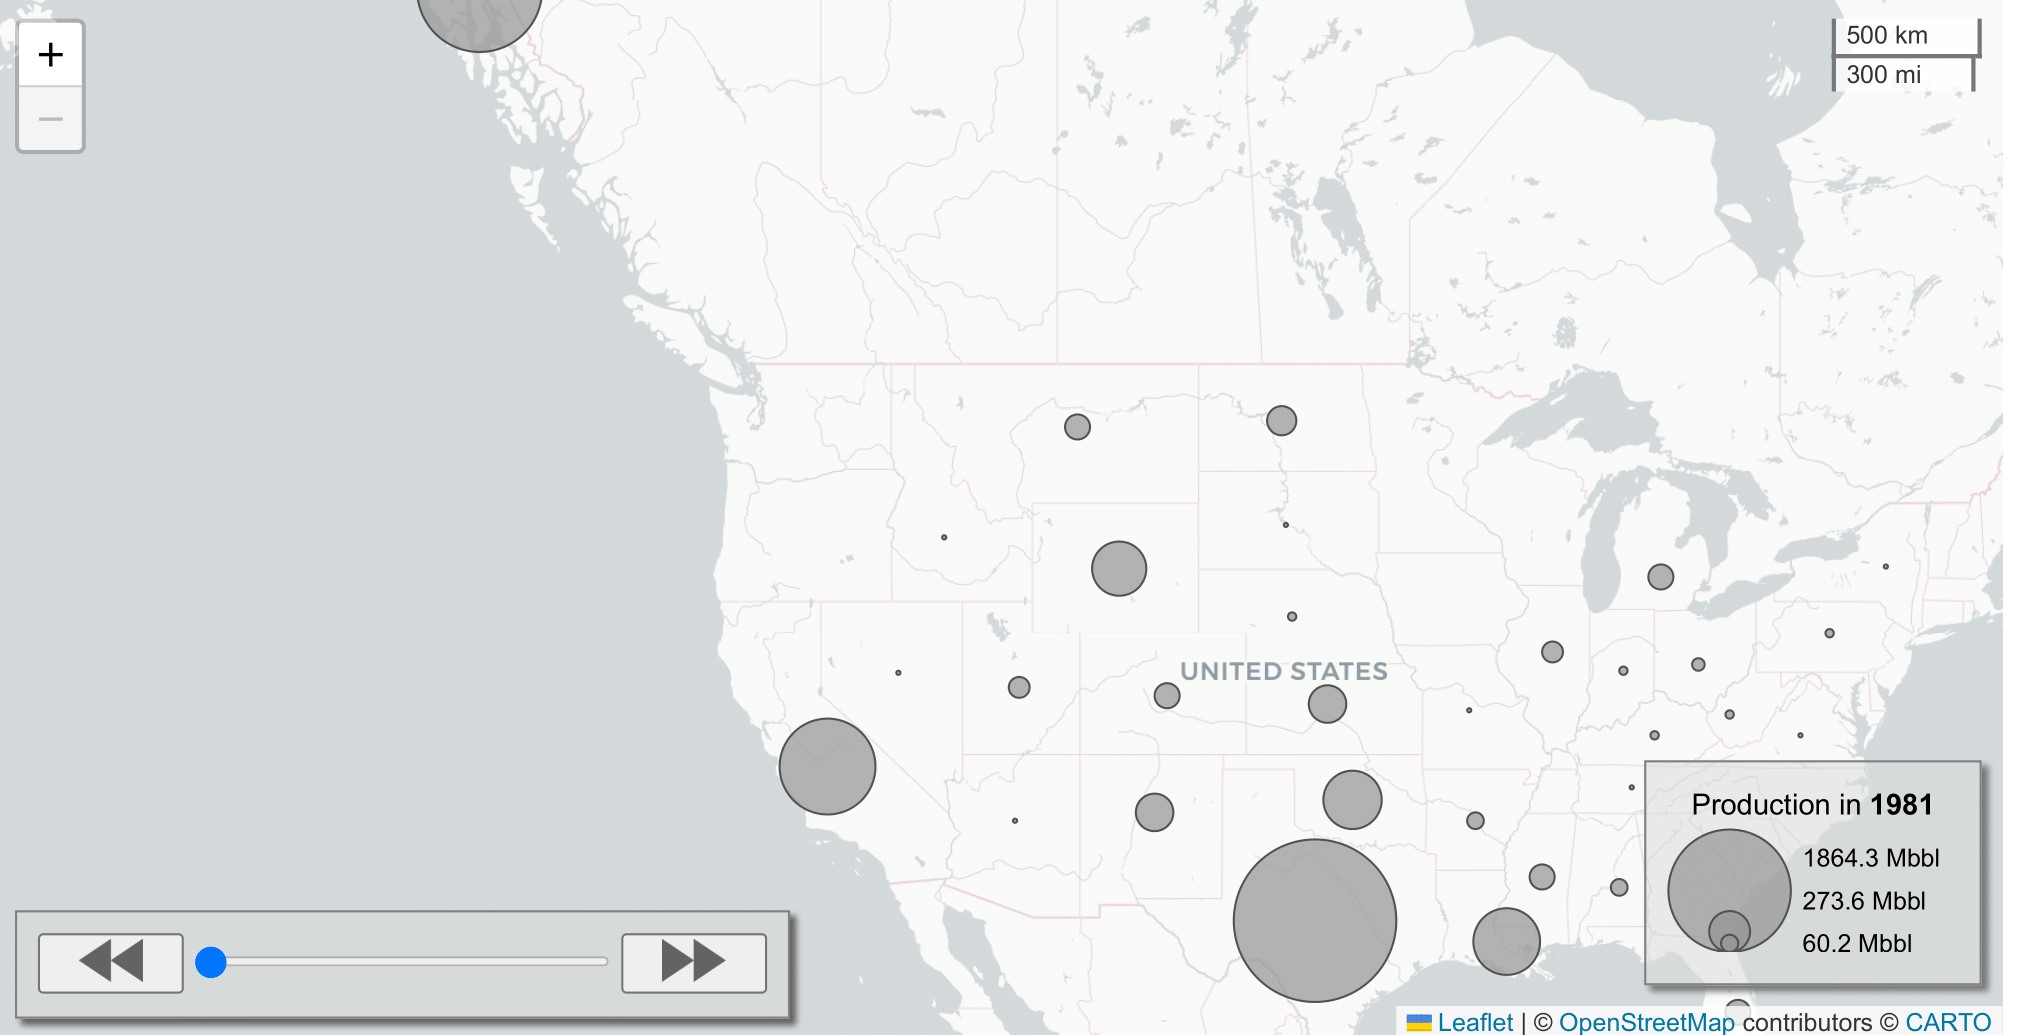
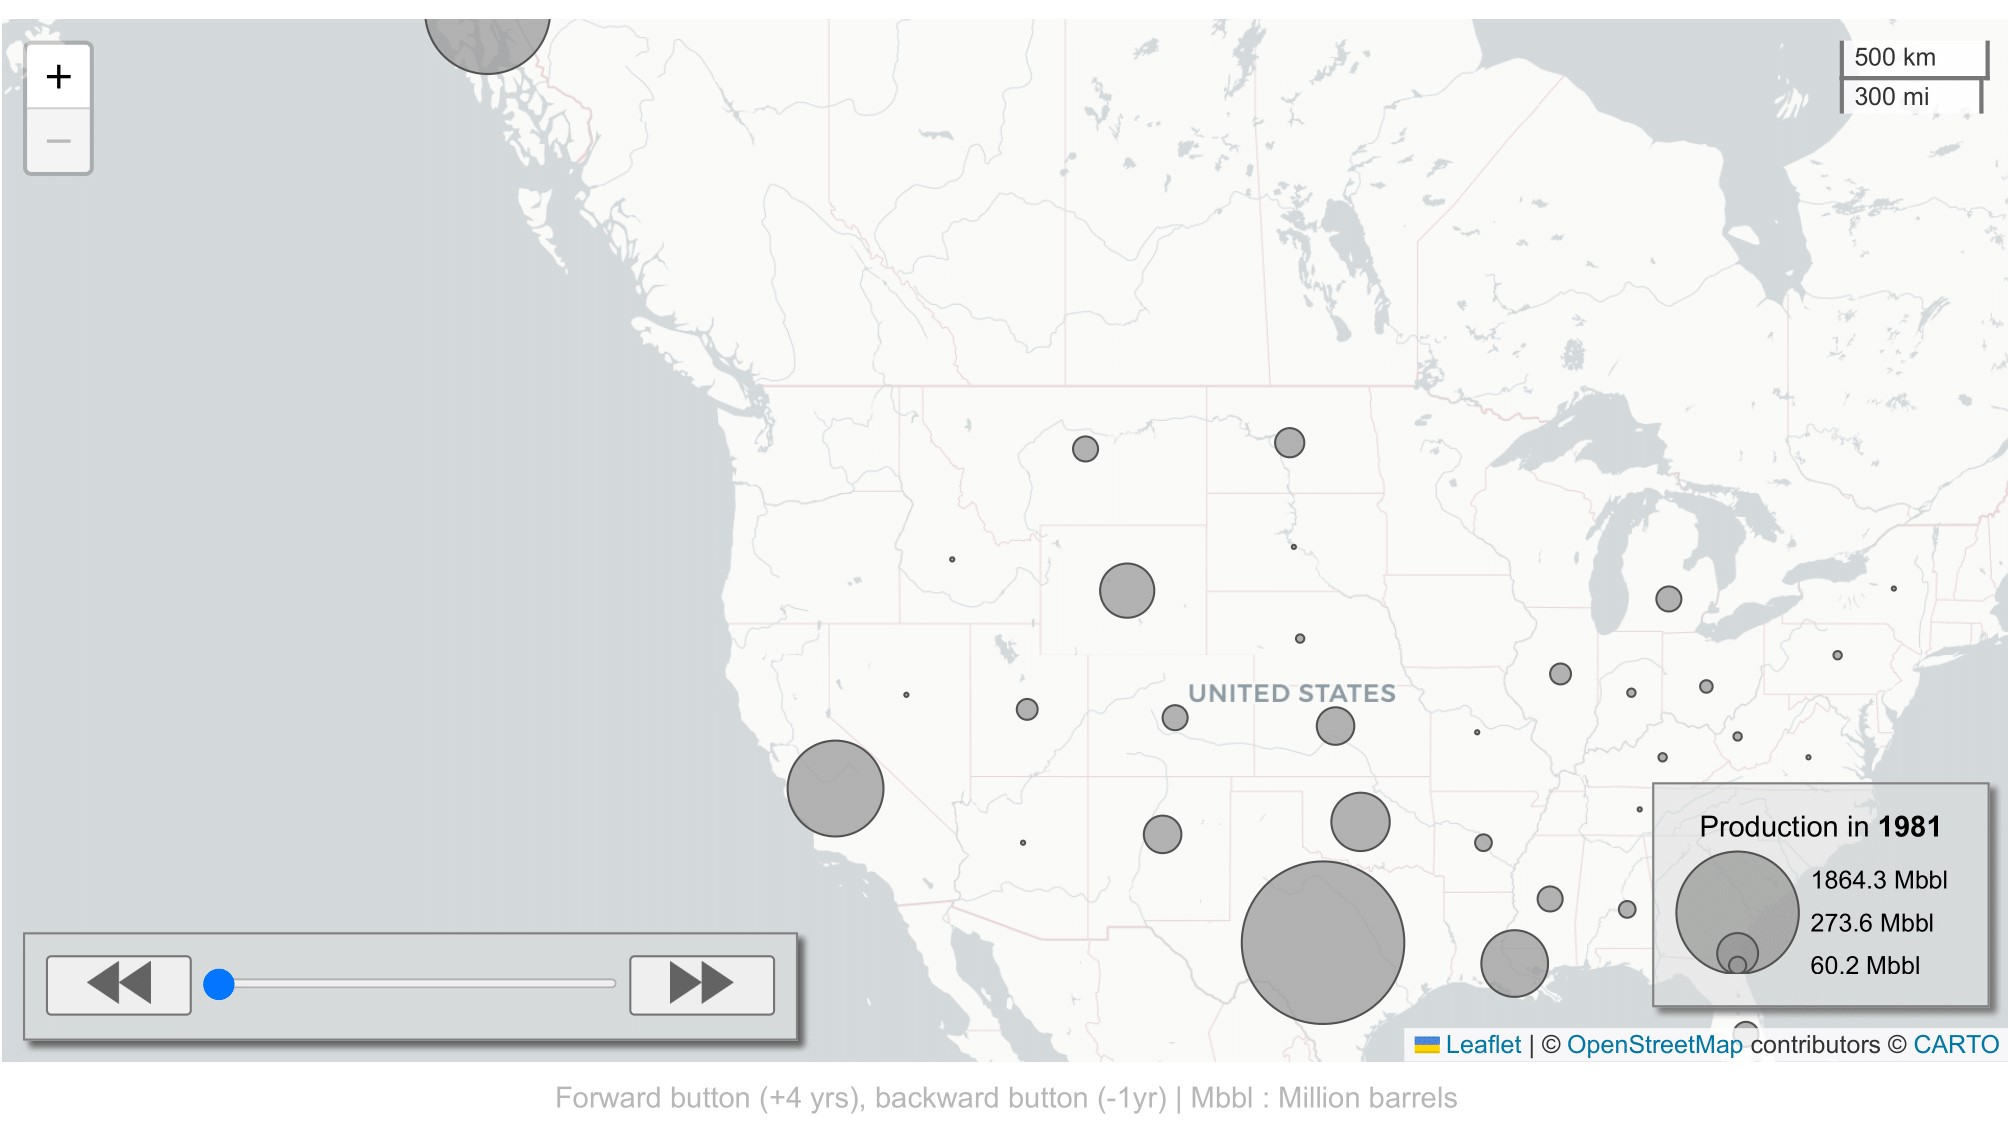
Leaflet thumbs image update

diff --git a/Maps.html b/Maps.html
@@ -65,7 +65,7 @@
         <div class="col-md-4">
             <div class="card">
                 <a href="portfolio/leaflet.html">
-                    <img class="card-img-top" src="assets/leaflet_thumbs.png" alt="Interactive leaflet map" loading="lazy">
+                    <img class="card-img-top" src="assets/Leaflet_thumbs.jpg" alt="Interactive leaflet map" loading="lazy">
                 </a>
                 <div class="card-body">
                     <h4 class="card-title">Inteactive Leaflet Map</h4>
